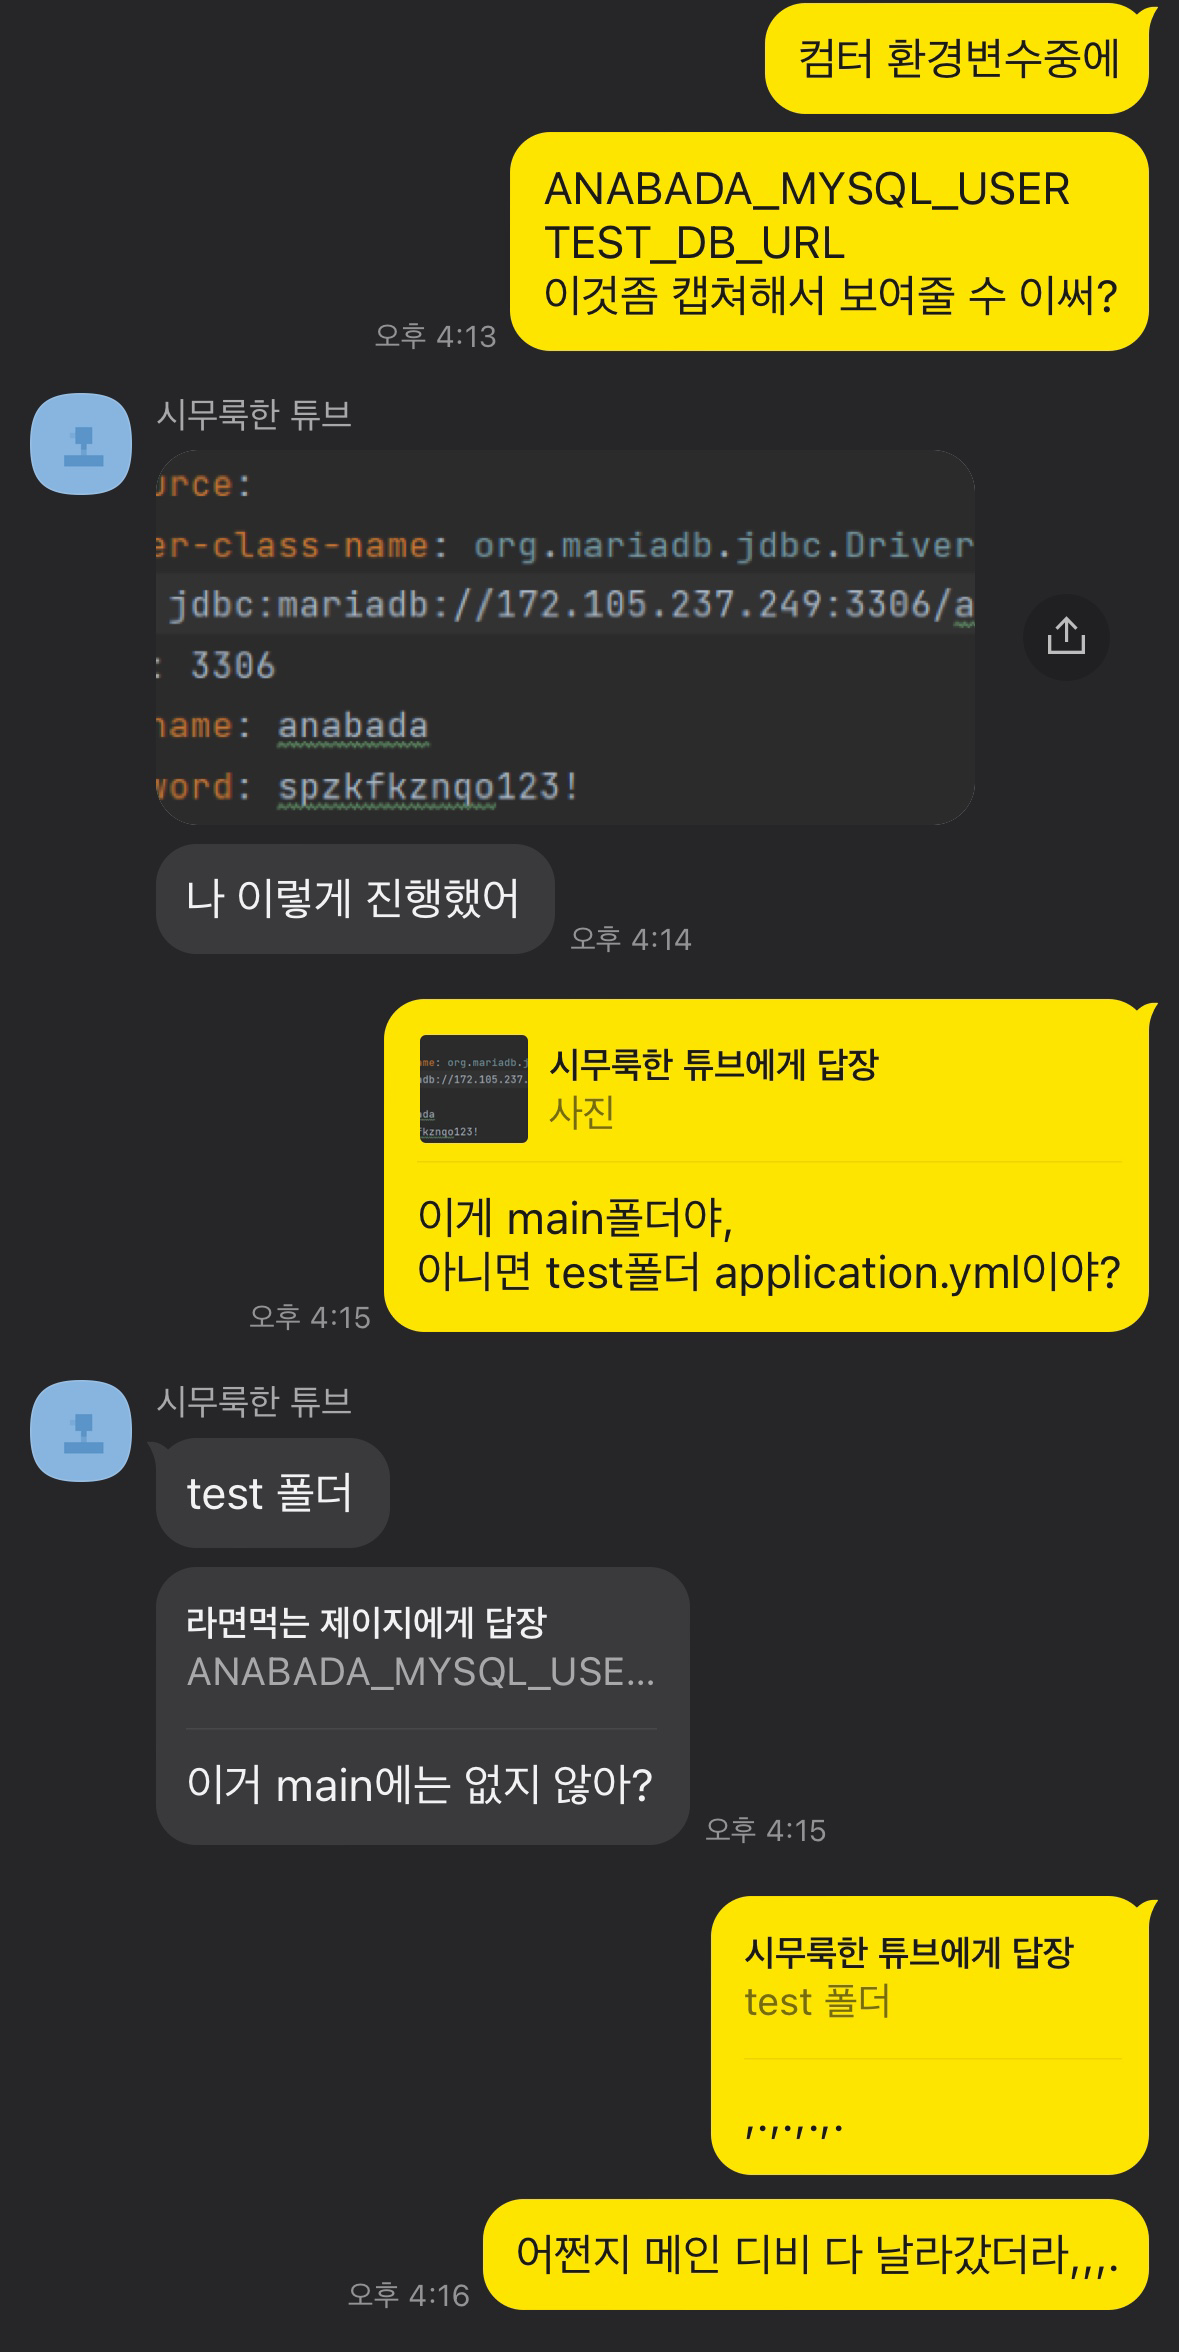
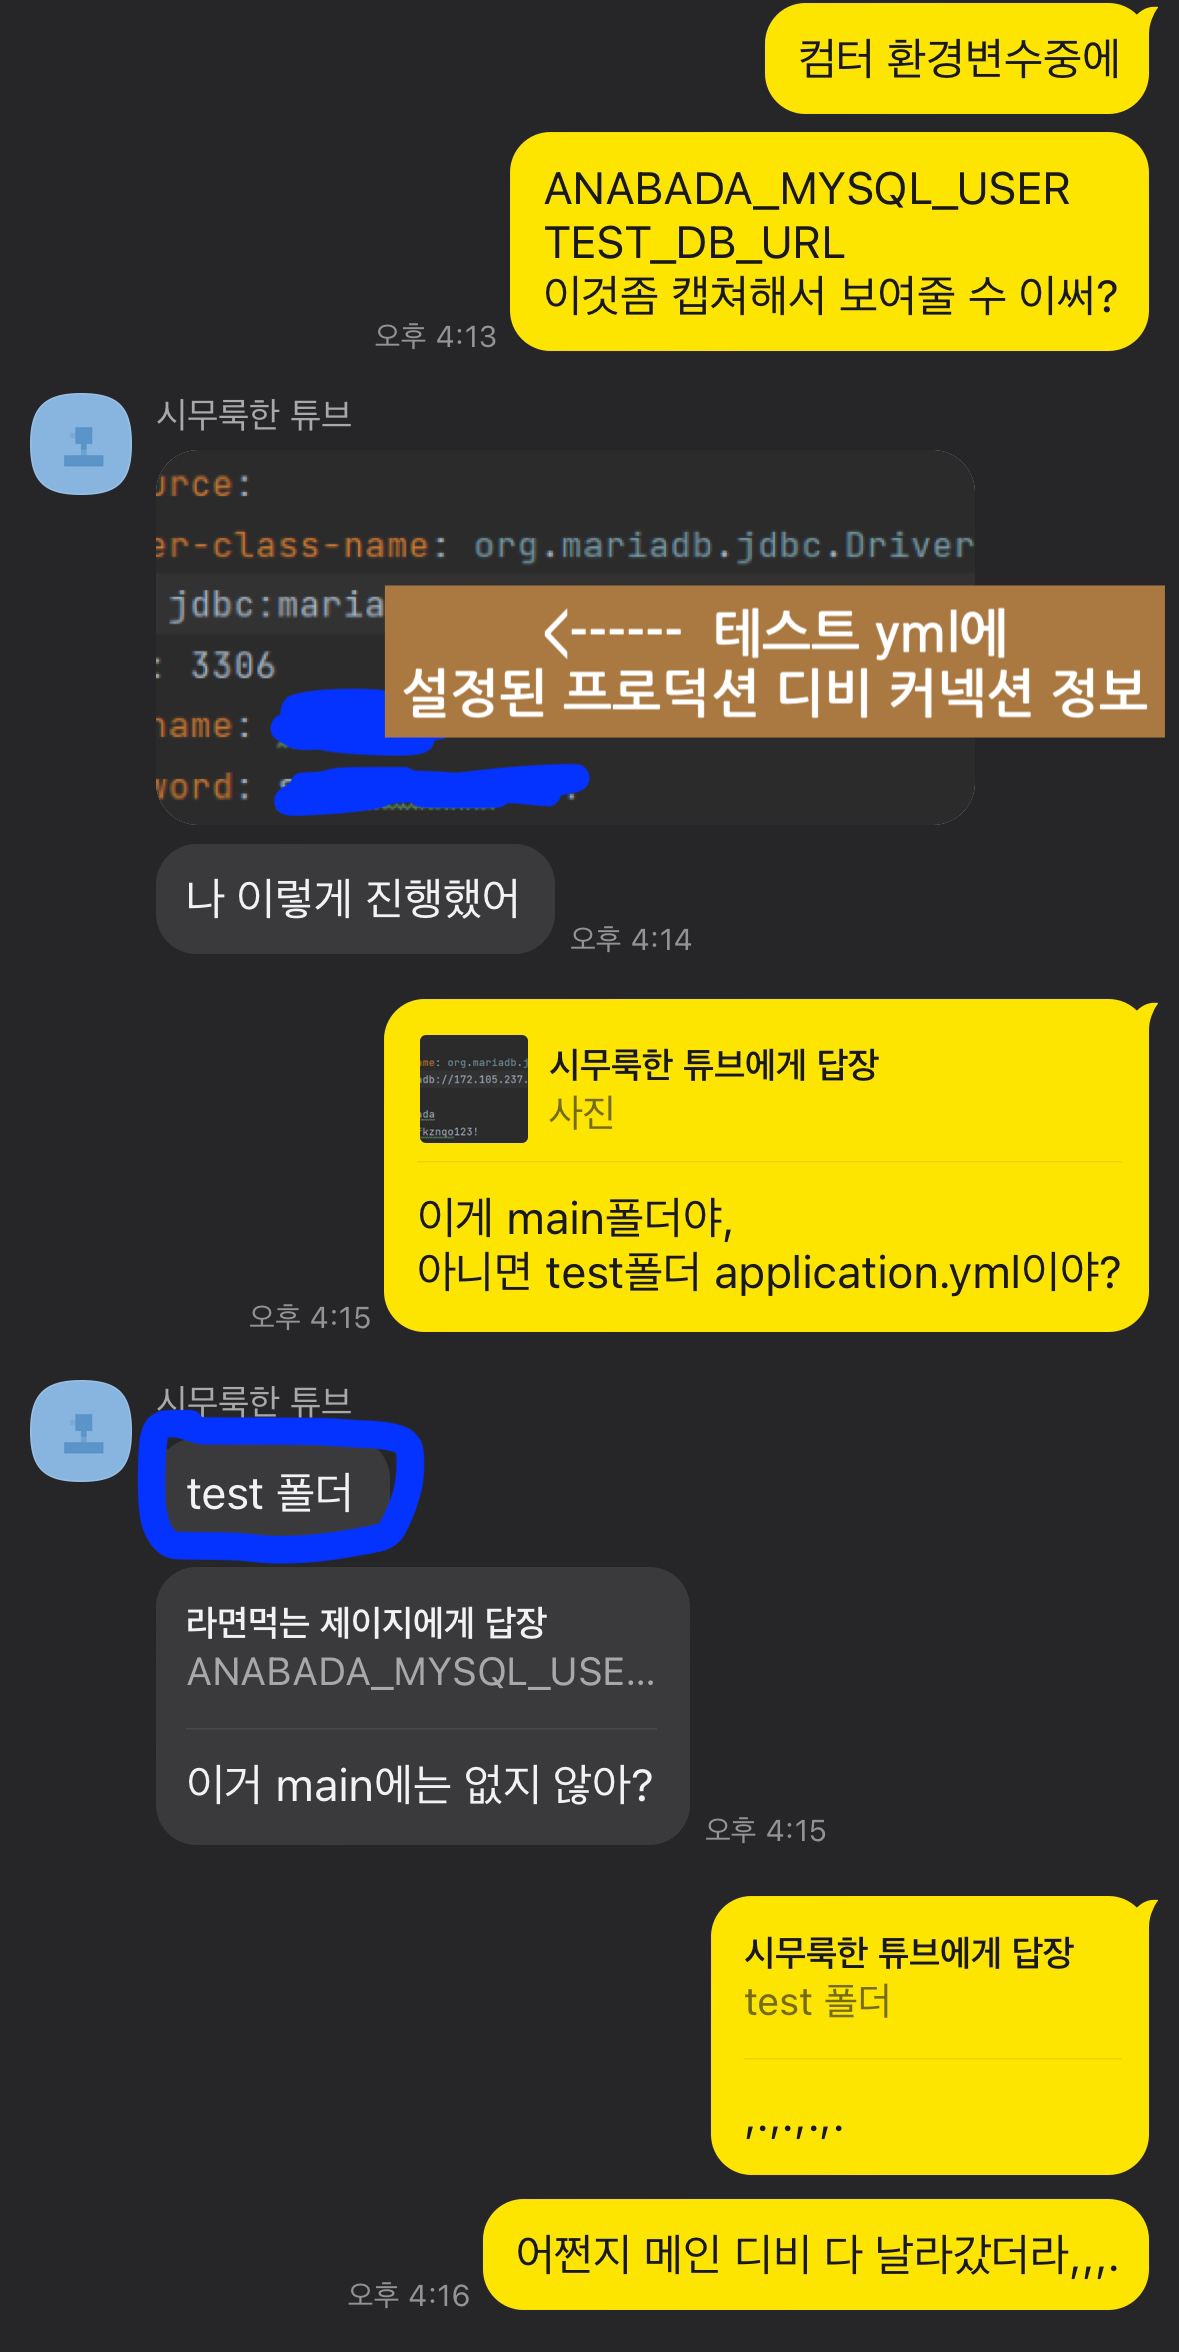
Update 2023-07-23-떠나간 데이터 끄나풀이라도 잡아보자.md

Changed region(s): [[0.2137, 0.2483, 1.0, 0.3724], [0.0916, 0.5897, 0.3664, 0.6828]]

diff --git a/_posts/2023-07-23-떠나간 데이터 끄나풀이라도 잡아보자.md b/_posts/2023-07-23-떠나간 데이터 끄나풀이라도 잡아보자.md
@@ -9,7 +9,7 @@ categories: [데이터베이스, 바이너리 로그]
 published: true
 ---
 
-어느 한 날... 테스트 서버에 생성해놓은 더미 데이터들이 몽땅 사라지는 일을 겪었습니다.  
+어느 한 날... 프로덕션 서버 *(실운영은 안하고 있는 상태)*에 생성해놓은 더미 데이터들이 몽땅 사라지는 일을 겪었습니다.  
 다시 일일이 만들기는 귀찮아서 집 나간 데이터를 되찾아보는 시간을 가졌습니다.
 
 ## 사건 조사
@@ -88,7 +88,7 @@ mysqlbinlog /var/lib/mysql/binlog.000068
 ![](/assets/2023-07-23/what-time.png){: width="500px"}
 
 23년 7월 22일 오후 7시 39분으로 확인되었습니다.  
-~~검거 완료...~~  
+~~검거 완료...(일단 난 아니였다. 다행.)~~  
   
 근데 도대체 어떻게 TEST DB가 아닌 다른 환경의 DB가 날아간 걸까요?  
   
@@ -117,11 +117,11 @@ import re
 import os
 
 def remove_comments(query):
-    # 정규 표현식을 사용하여 쿼리에서 여러 줄 주석과 one line 주석을 모두 제거합니다.
+    # binlog 자체로 생긴 주석 제거
     return re.sub(r'(?:/\*.*?\*/|#.*?$|--.*?$)', '', query, flags=re.MULTILINE)
 
 def comment_out_drop_create_queries(query):
-    # DROP과 ALTER TABLE로 시작하는 모든 쿼리를 주석 처리합니다.
+    # DROP, ALTER 문법 주석 처리
     return re.sub(r'(?i)^\s*(DROP|ALTER\sTABLE)\s', r'#\g<0>', query, flags=re.MULTILINE)
 
 def extract_binlogs(start_file_number, end_file_number, output_sql_file):
@@ -141,10 +141,7 @@ def extract_binlogs(start_file_number, end_file_number, output_sql_file):
             command = f'{mysql_binlog_path} {binlog_filepath}'
             output = subprocess.check_output(command, shell=True, text=True)
 
-            # 주석 제거 함수를 이용하여 쿼리에서 주석들을 제거합니다.
             cleaned_output = remove_comments(output)
-
-            # DROP과 ALTER TABLE 쿼리 주석 처리 함수를 이용하여 해당 쿼리들을 주석 처리합니다.
             cleaned_output = comment_out_drop_create_queries(cleaned_output)
 
             # 정제된 쿼리를 합쳐줍니다.
@@ -159,9 +156,9 @@ def extract_binlogs(start_file_number, end_file_number, output_sql_file):
         f.write(merged_query)
 
 if __name__ == '__main__':
-    start_file_number = "000000"
-    end_file_number = "000067"
-    output_sql_file = 'output.sql'
+    start_file_number = "000000" # 파싱 시작 파일 번호
+    end_file_number = "000067" # 파싱 끝 파일 번호
+    output_sql_file = 'output.sql' # 생성할 결과물 파일명
 
     extract_binlogs(start_file_number, end_file_number, output_sql_file)
 
@@ -179,6 +176,8 @@ mysql -u root -p -f < ./output.sql
 **드디어.... 집나간 데이터가 돌아왔습니다!!!**  
 
 
-
-
-
+## 결론
+> 1. 백업을 생활화 하자.  
+> 	디비 백업 전략(추가 관리비가 필요없는 방법)은 어떤 것이 있을까?  
+> 	스케쥴러를 따로 구성해야할까? 한번 찾아보고 도입 해 보아야겠다.  
+> 1. 민감정보가 담길 수 있는 yml을 관리하는 법을 추가로 생각해봐야겠다.  
